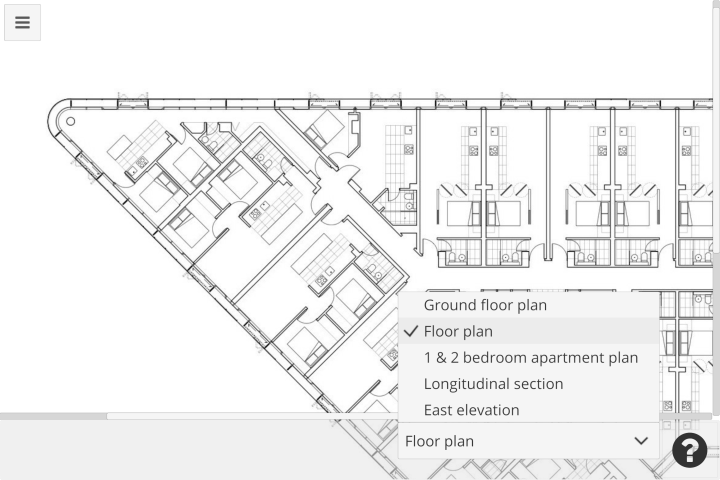
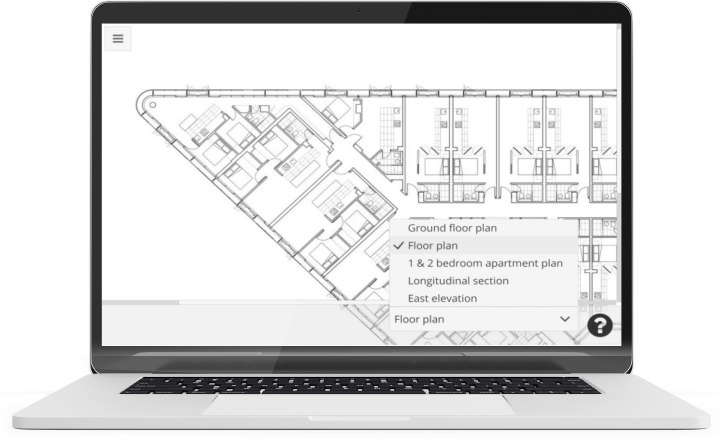
New images for gallery and blueprints with device frames.

diff --git a/index.html b/index.html
@@ -160,7 +160,7 @@
                     <p>Show the best shots and info of your building with the included photo gallery.</p>
                 </div>
                 <div class="section-image">
-                    <img src="assets/images/visarch/Gallery.jpg" alt="Photo gallery" />
+                    <img src="assets/images/visarch/Gallery.png" alt="Photo gallery" />
                 </div>
             </div>
         </div>
